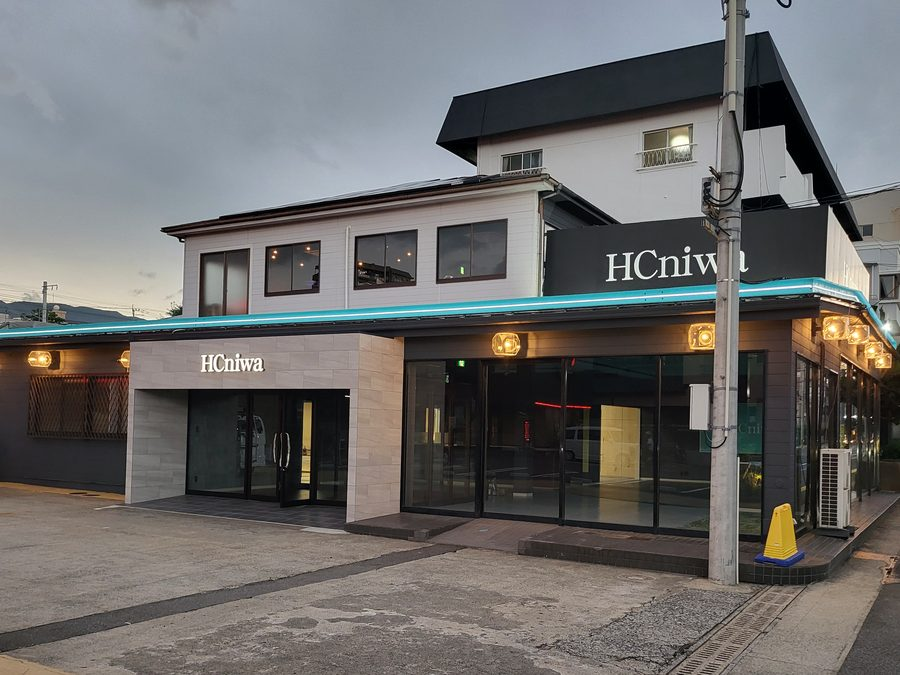
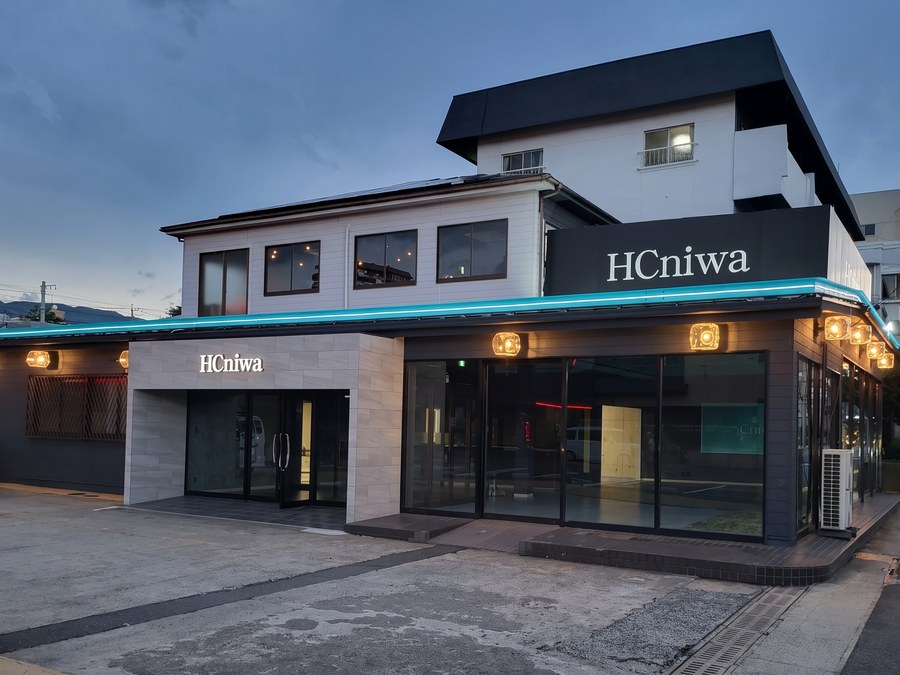
HCniwaの写真を電柱・コーンを消してプロ風に補正した版に差し替え

diff --git a/index.html b/index.html
@@ -536,7 +536,7 @@ a:hover{color:var(--gold-deep)}
         <a class="work-link" href="https://nexusplaza.co.jp/store/daimaru/" target="_blank" rel="noopener">お店の紹介ページを見る<svg width="14" height="14" viewBox="0 0 24 24" fill="none" stroke="currentColor" stroke-width="2" stroke-linecap="round" stroke-linejoin="round" aria-hidden="true"><path d="M7 17L17 7"/><path d="M8 7h9v9"/></svg></a>
       </article>
       <article class="work">
-        <img class="work-img" src="assets/works/hcniwa.jpg" alt="HCniwa（ハコニワ）の外観と看板" width="800" height="600" loading="lazy">
+        <img class="work-img" src="assets/works/hcniwa.jpg?v=2" alt="HCniwa（ハコニワ）の外観と看板" width="800" height="600" loading="lazy">
         <div class="work-meta">カーショップ｜別府市新港町</div>
         <h3 class="work-title">HCniwa（ハコニワ）</h3>
         <p class="work-scope">設計デザイン／新装・内装工事一式／看板</p>
